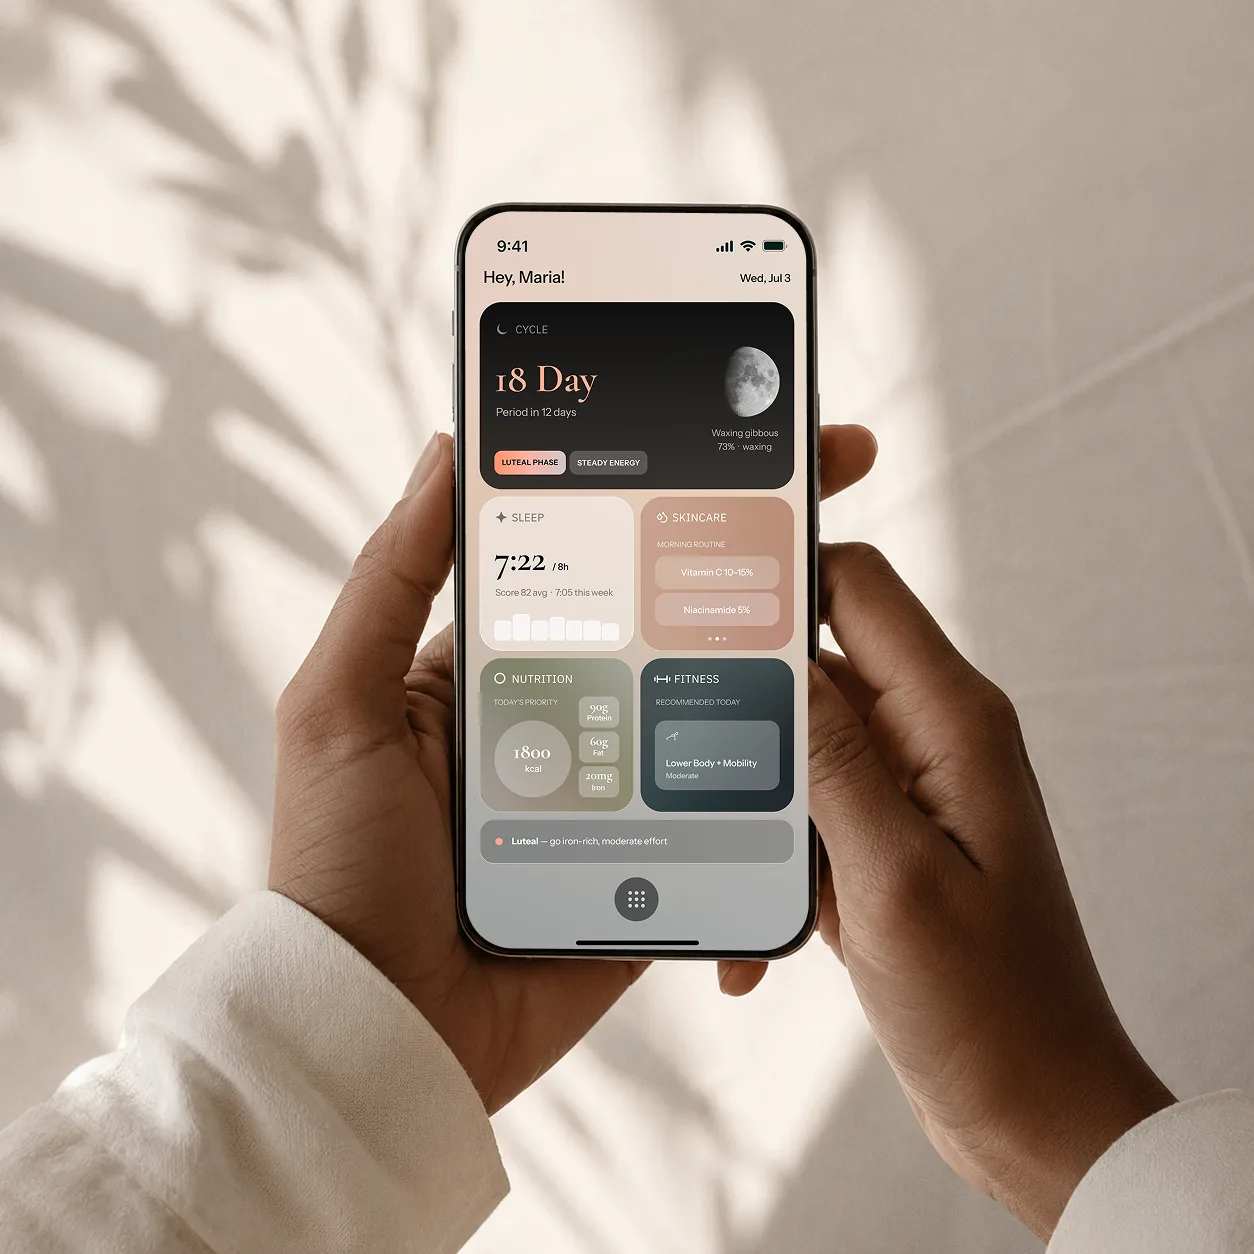
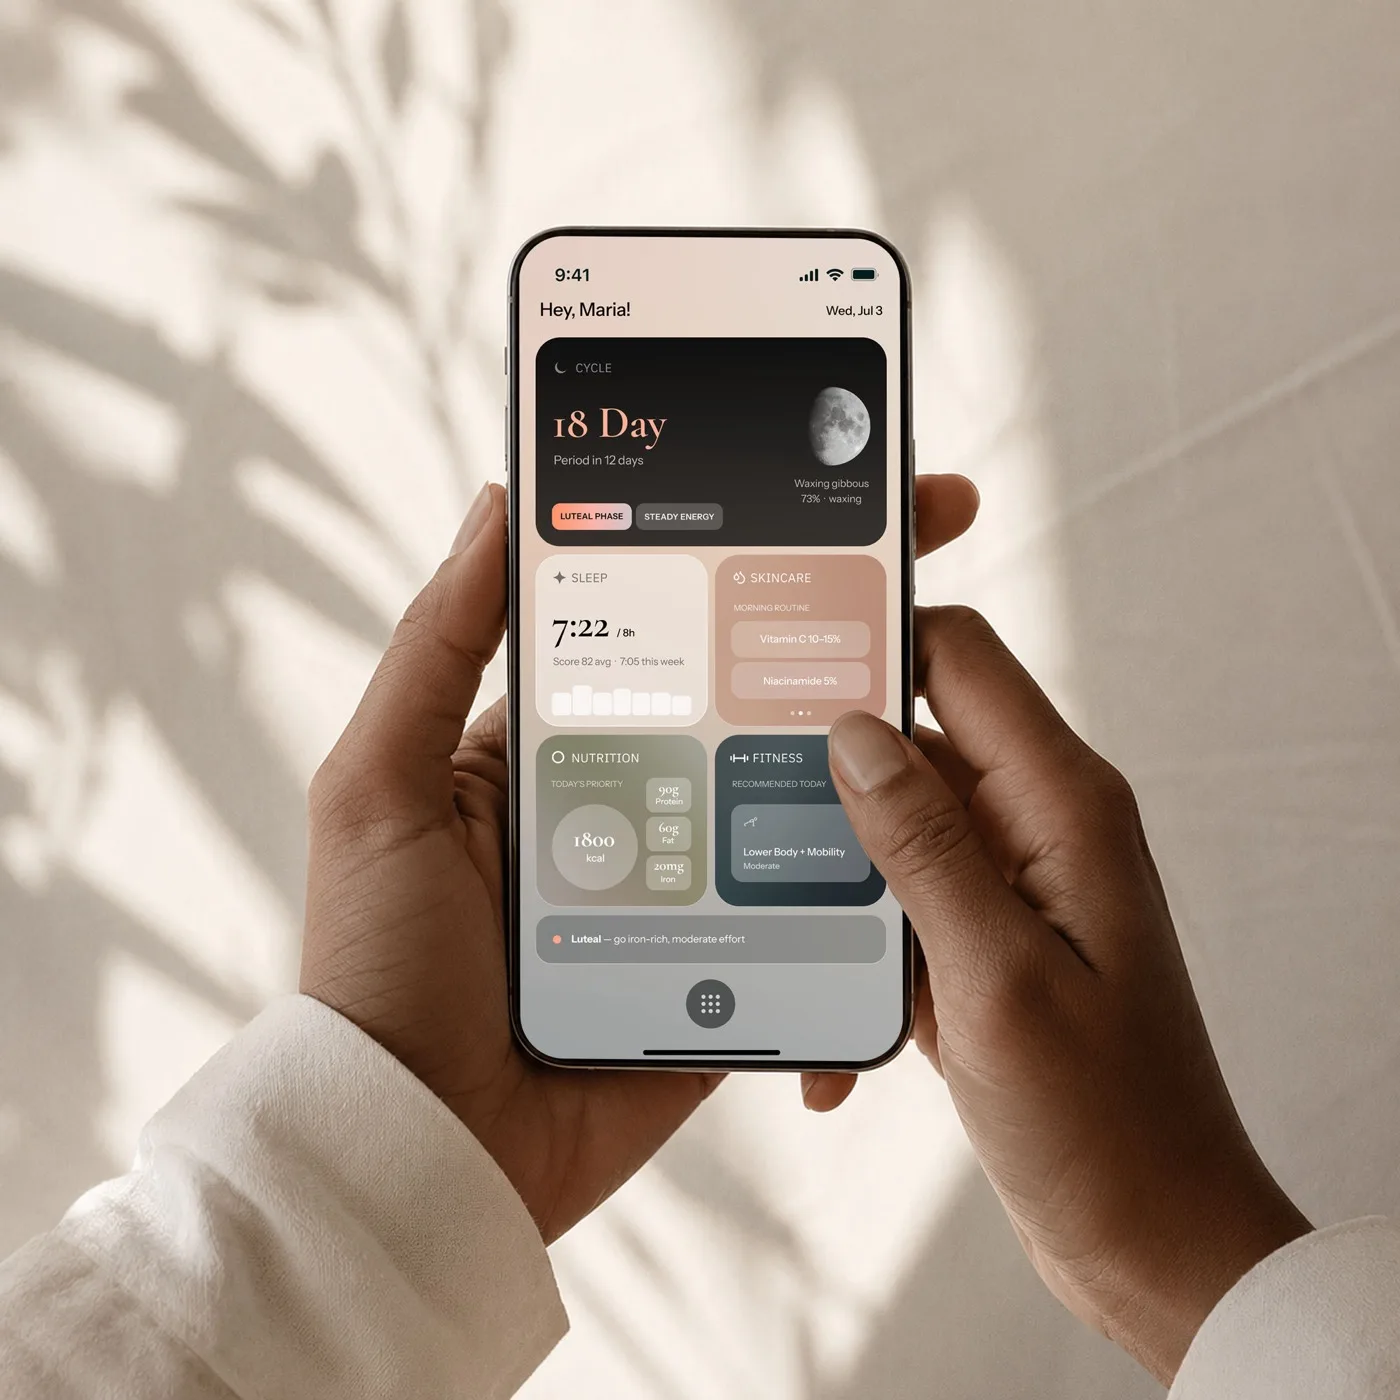
Replace 'One place for all of you' image

diff --git a/index.html b/index.html
@@ -514,7 +514,7 @@
             <figcaption>Your body, <em>understood</em>.</figcaption>
           </figure>
           <figure class="lifestyle__card">
-            <img loading="lazy" decoding="async" src="assets/one-place.webp" alt="Hands holding a phone showing the Ritalu dashboard" />
+            <img loading="lazy" decoding="async" src="assets/one-place.webp?v=2" alt="Hands holding a phone showing the Ritalu dashboard" />
             <figcaption>One place for <em>all of you</em>.</figcaption>
           </figure>
           <figure class="lifestyle__card">